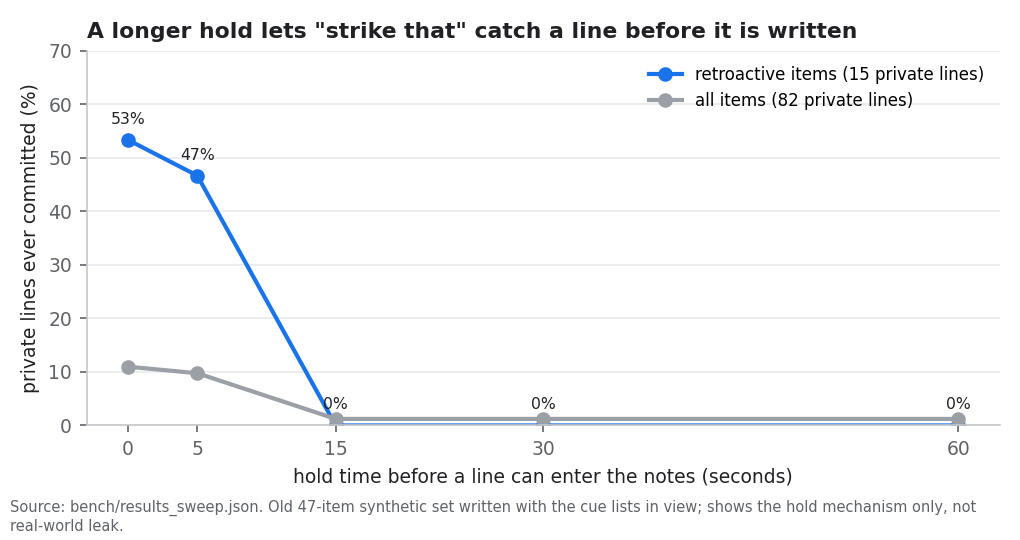
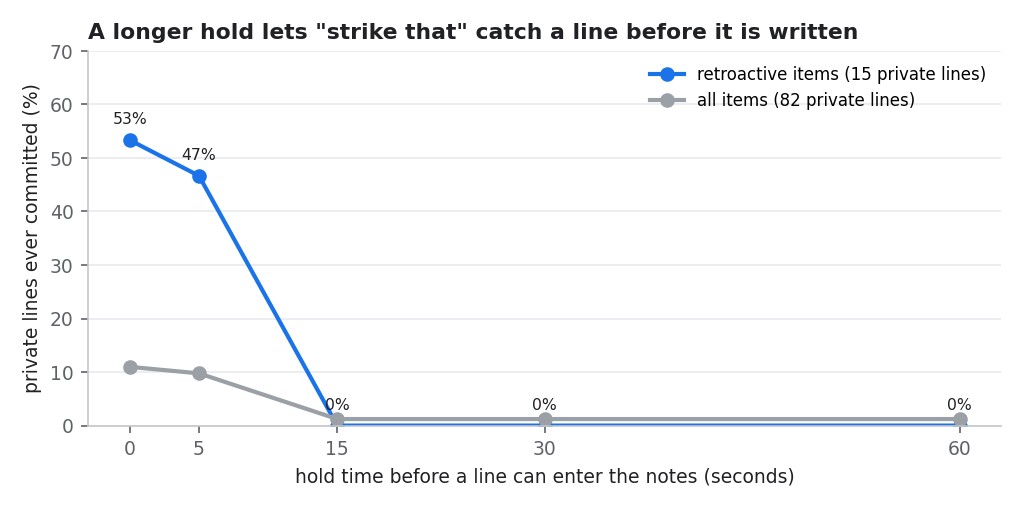
Clean up the result charts
- Remove the source footnotes from the images, sources stay in docs/RESULTS.md
- Plain titles and tight margins

Changed region(s): [[0.0, 0.1473, 0.9725, 1.0], [0.0304, 0.0295, 0.851, 0.1179], [0.6382, 0.1179, 0.9725, 0.2063]]

diff --git a/scripts/make_charts.py b/scripts/make_charts.py
@@ -77,12 +77,13 @@ def wilson(k, n, z=1.96):  # same z as bench/metrics.py
 
 
 def footnote(fig, text):
-    fig.text(0.01, 0.012, text, ha="left", va="bottom", fontsize=7, color=MUTED, wrap=True)
+    """Charts stay clean: sources and caveats live in docs/RESULTS.md, not on the image."""
+    return None
 
 
 def save(fig, out, name):
     p = os.path.join(out, name)
-    fig.savefig(p, dpi=DPI, metadata={"Software": None})
+    fig.savefig(p, dpi=DPI, metadata={"Software": None}, bbox_inches="tight", pad_inches=0.15)
     plt.close(fig)
     print("wrote", os.path.relpath(p, ROOT))
 
@@ -122,7 +123,7 @@ def chart_sealed(out):
         ax.set_title(title, fontsize=9.5, loc="left")
         ax.grid(axis="y", color="#e8eaed", linewidth=0.8)
         ax.set_axisbelow(True)
-    fig.suptitle("OTR-Bench v2 sealed split (150 items): lower is better on both",
+    fig.suptitle("Realistic meetings: lower is better on both",
                  x=0.01, ha="left", fontsize=11, fontweight="bold", color=INK)
     footnote(fig, f"Source: {src} (llm none, hold 30 s). Bars: Wilson 95% intervals. B-stub and B+-stub are "
                   "heuristic stand-ins, not LLMs. Data written by language models, not reviewed by people.")
@@ -247,13 +248,13 @@ COLUMNS = ["Consent per\nperson at\nthe audio", "Privacy gate\nbefore notes\nor 
 # Each cell: (value, phrase that must appear in COMPETITORS.md). Values: yes, partial (with a short word), no,
 # not found (absent from the vendor pages read), unknown (pages say nothing either way).
 GRID = [
-    ("OTR (this repo)", [
+    ("Off The Record", [
         ("yes", "Consent at the audio track"),
         ("yes", "Hold buffer plus ON/OFF/PENDING state machine"),
         ("yes", "Retroactive removal (\"strike that\", cue and scope handling)"),
         ("partial", "This is not close to solved"),
         ("yes", "Per-item explainability"),
-        ("yes*", "Local-only default"),
+        ("yes", "Local-only default"),
         ("yes", "Per-person track identity avoids voiceprints"),
     ]),
     ("Meetily", [
@@ -365,7 +366,7 @@ def chart_grid(out):
             ax.add_patch(plt.Rectangle((1.6 + j + 0.04, y + 0.06), 0.92, 0.88, facecolor=bg,
                                        edgecolor="#dadce0", linewidth=0.8))
             ax.text(1.6 + j + 0.5, y + 0.5, v, ha="center", va="center", fontsize=7.5, color=fg, fontweight=wt)
-    ax.set_title("What each notetaker documents, per docs/COMPETITORS.md", loc="left", fontsize=11)
+    ax.set_title("How meeting notetakers handle privacy", loc="left", fontsize=11)
     footnote(fig, "Source: docs/COMPETITORS.md (vendor pages read 2026-10-22; nothing was tested). \"not found\" = not "
                   "described on the pages read, which is not proof of absence. \"unknown\" = pages say nothing either "
                   "way. *OTR runs locally by default; the hosted demo routes API traffic through Vercel and a tunnel. "
